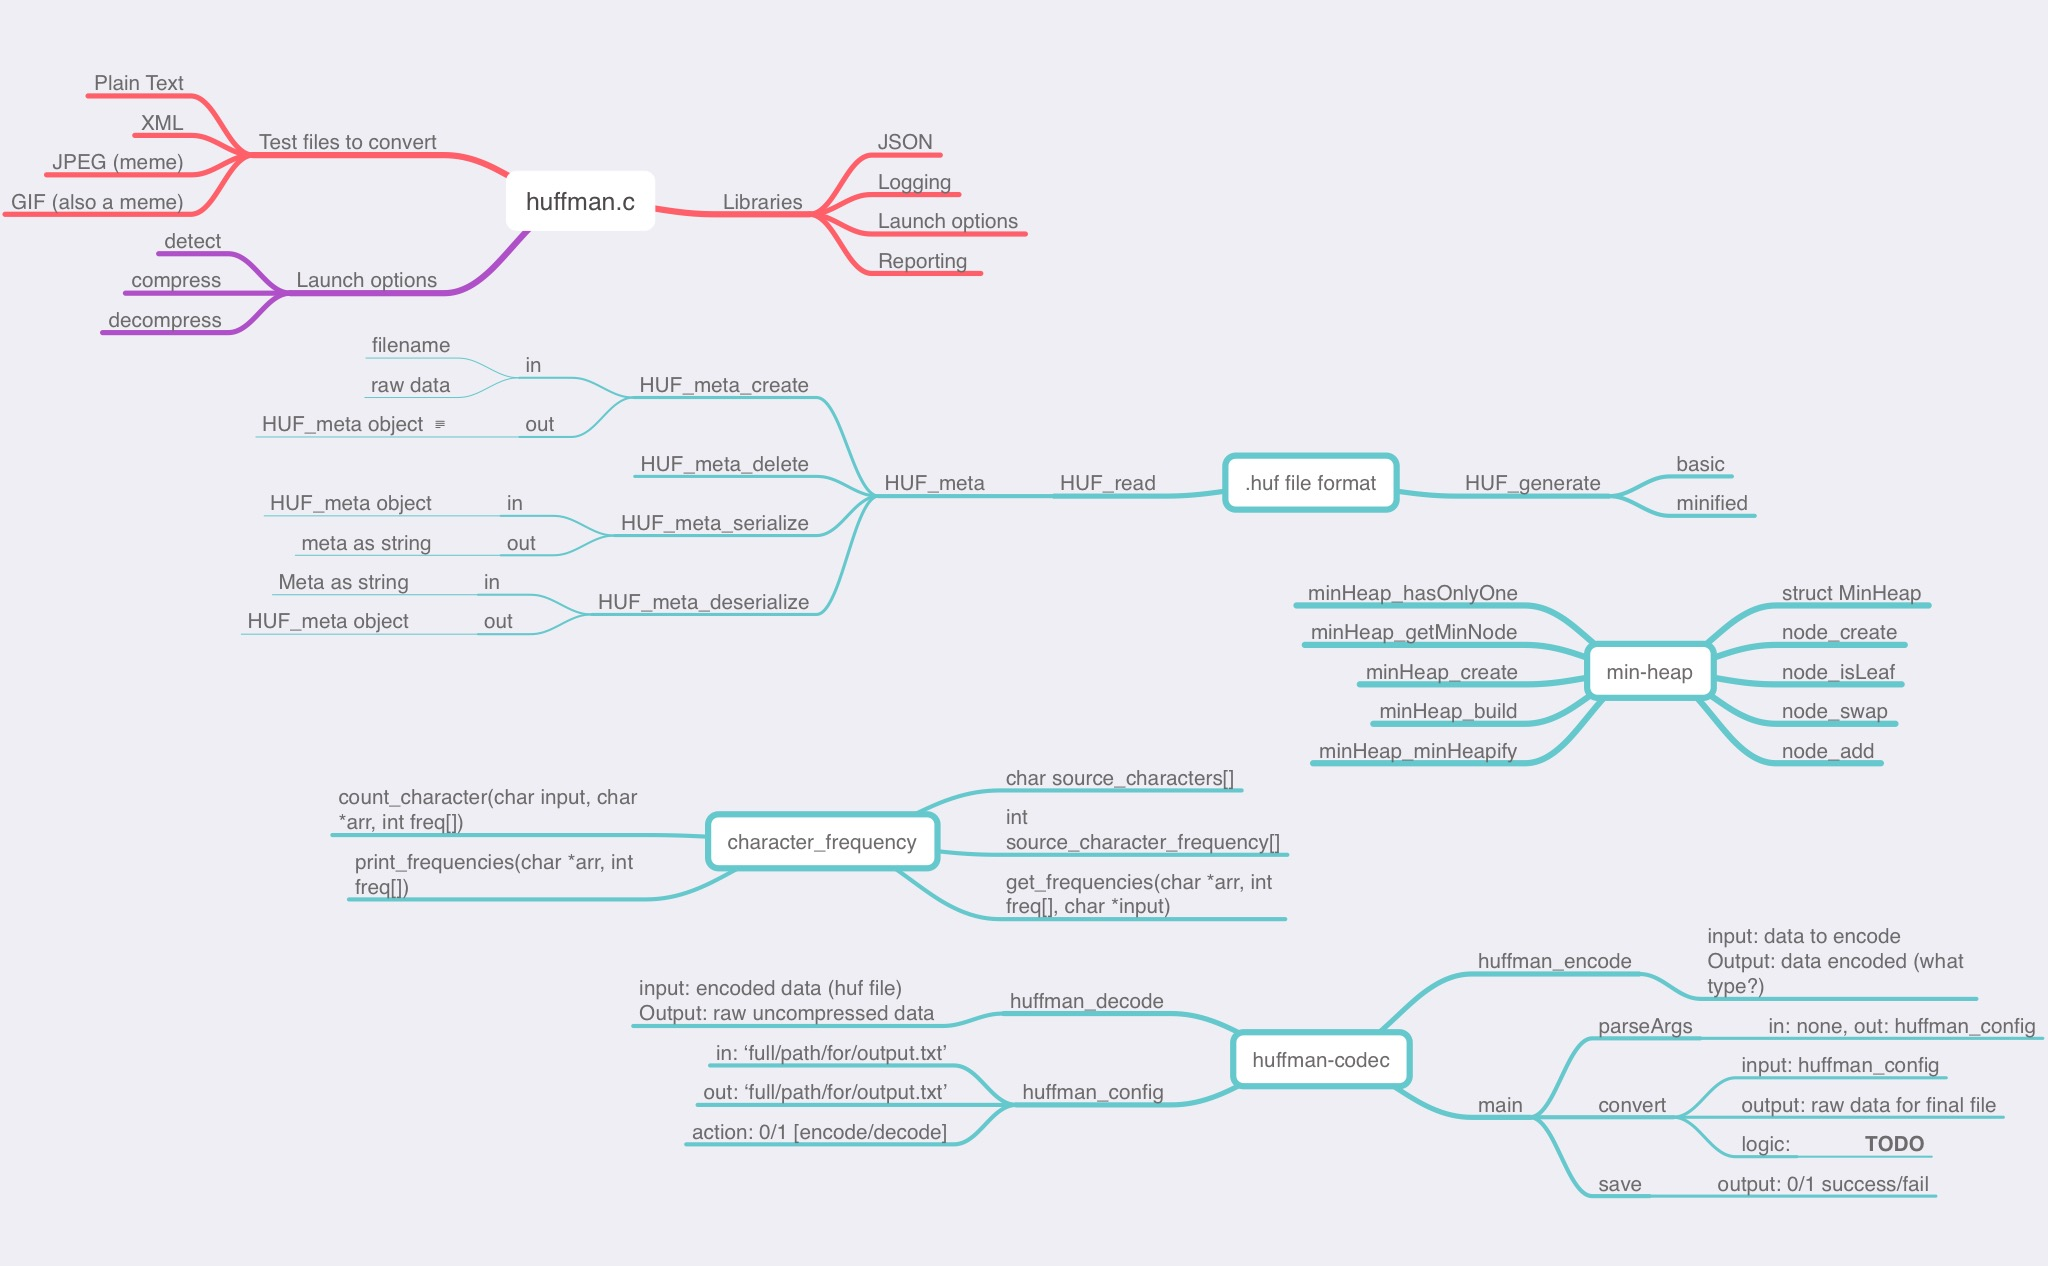
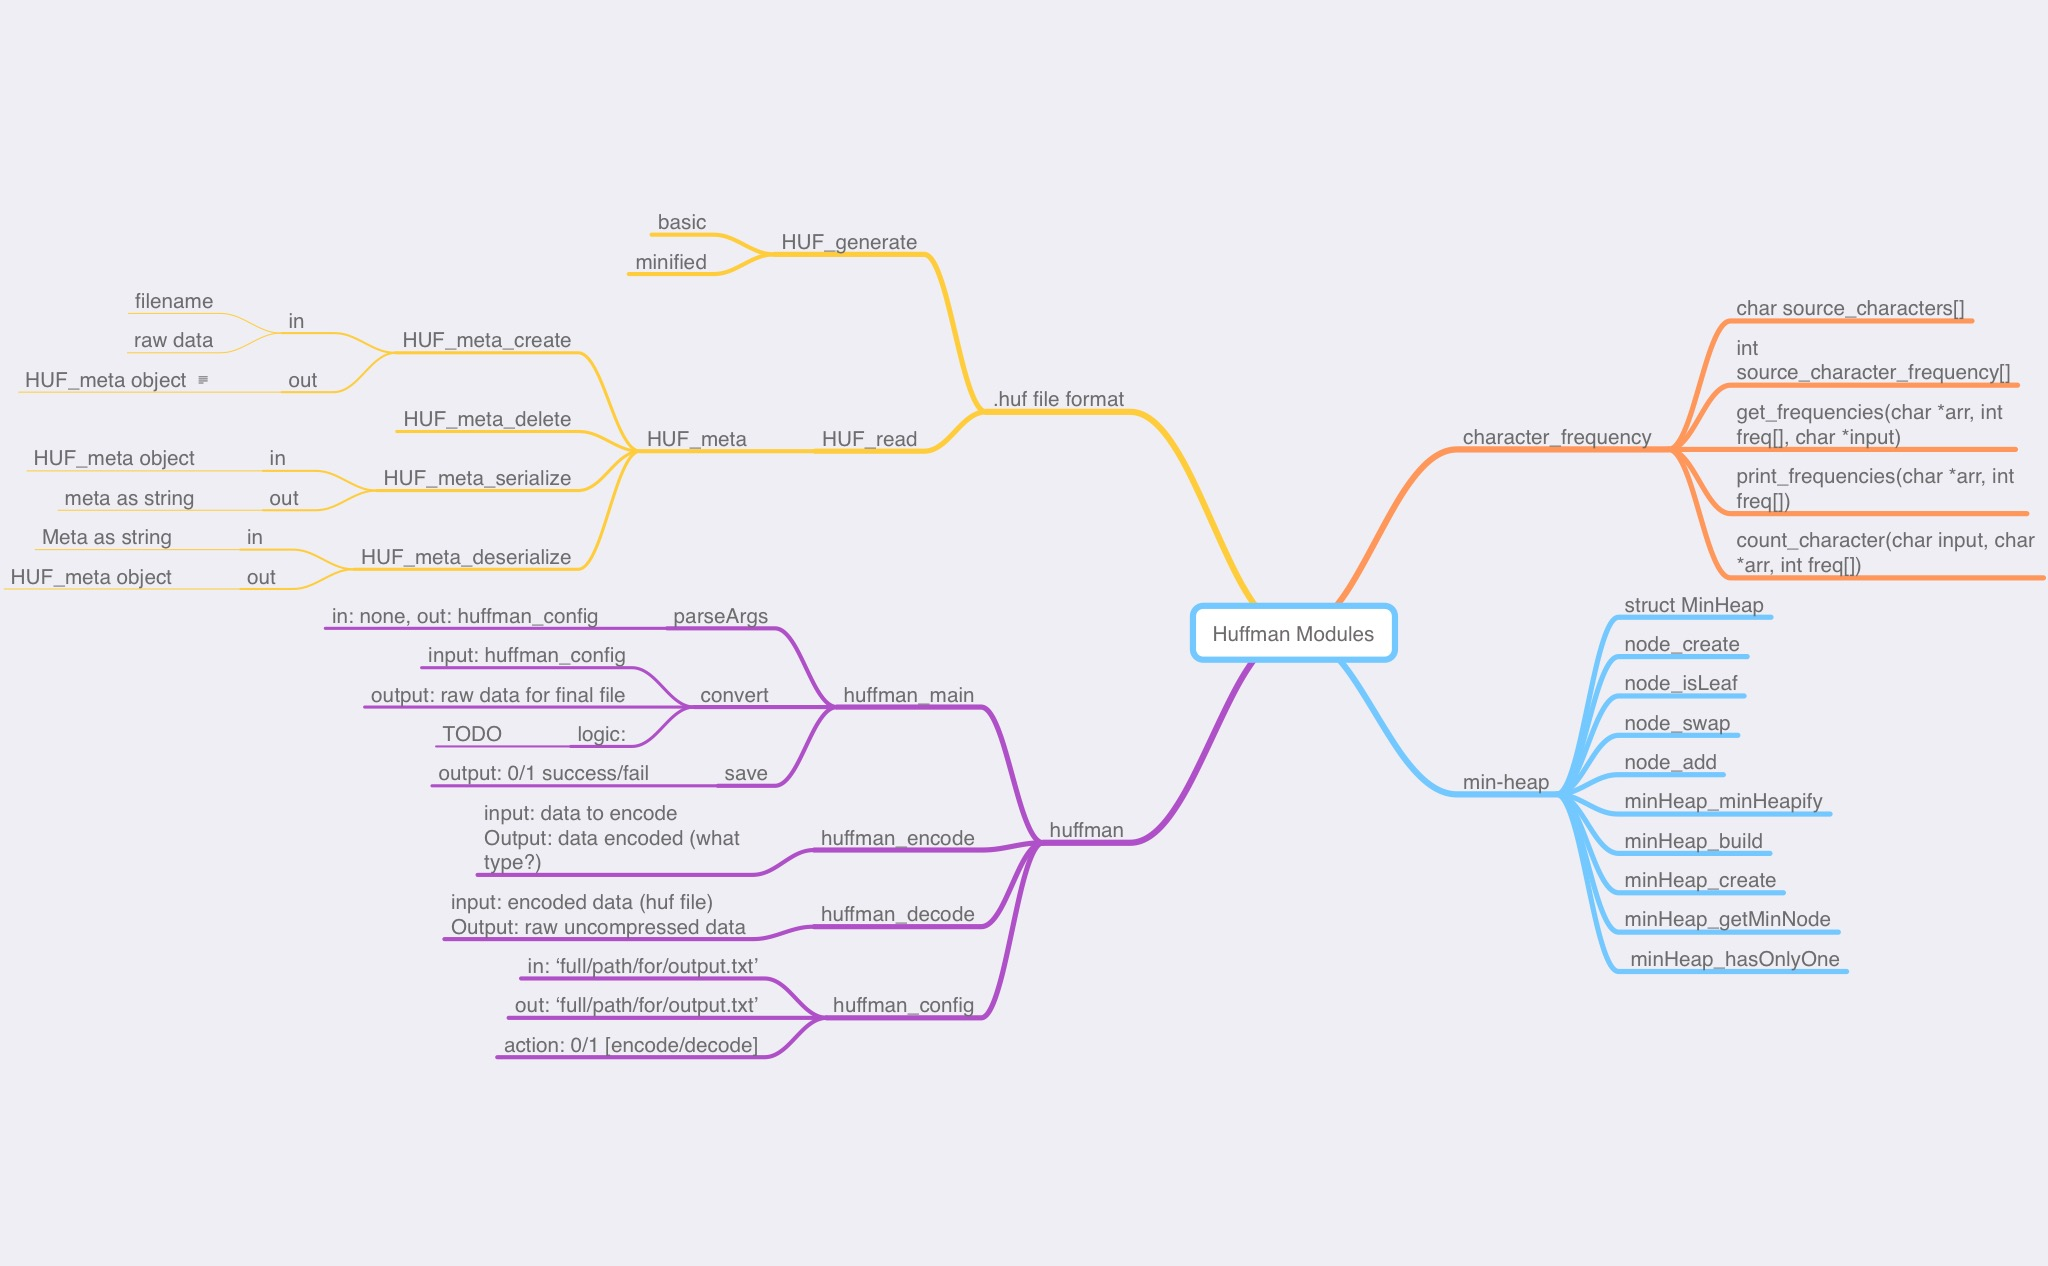
need to investigate segfault

diff --git a/src/tests.c b/src/tests.c
@@ -4,7 +4,7 @@
 #include <stdlib.h>
 #include <string.h>
 
-/** 
+/**
  * Module Test Files
  **/
 #include "huffman.h"
@@ -26,7 +26,7 @@ static char *test_check_testing_works()
 }
 
 /**  TODO: huff_file.h tests
- * ../src/huff_file.h 
+ * ../src/huff_file.h
  **/
 
 static char *test_HUFF_meta_create()
@@ -52,17 +52,17 @@ static char *test_HUFF_meta_serialize()
    *  We want serialize to be able to take the huff meta with properties:
    *  filename: "bar"
    *  extension: "foo"
-   *  size: 10241024 
+   *  size: 10241024
+   *
    *  into a json object
-   * 
    *  {
    *   "meta": {
    *     "filename": "bar",
-   *     "extension": "foo", 
+   *     "extension": "foo",
    *     "size": 10241024
    *   }
    * }
-   * 
+   *
    **/
 
   huff_meta *meta = HUFF_meta_create("bar", "foo", 10241024);
@@ -152,14 +152,21 @@ static char *test_HUFF_read()
   FILE *fp = fopen(filename, "r");
   char buffer[1024768];
   fgets(buffer, 1024768, fp);
-  
+
   // now we try to read it
-  huff_file *contents = HUFF_read
+  huff_file *contents = HUFF_read("test2.huff");
+
+  mu_assert("huff_read should match meta filename", strcmp(contents->meta->filename, meta->filename) == 0);
+  mu_assert("huff_read should match meta extension", strcmp(contents->meta->extension, meta->extension) == 0);
+  mu_assert("huff_read should match data", strcmp(contents->data, data) == 0);
+  mu_assert("huff_read should match size", contents->meta->size == 13371337);
+
   // delete the file now that we are done
   fclose(fp);
   remove(filename);
 
-  mu_assert("test_HUFF_read not yet implemented", 1);
+  mu_assert("test_HUFF_read not yet implemented", 0);
+  return (char *)0;
 }
 
 static char *test_huff_file()
@@ -175,7 +182,7 @@ static char *test_huff_file()
 }
 
 /**  TODO: min-heap.h tests
- * ../src/min-heap.h 
+ * ../src/min-heap.h
  **/
 static char *test_min_heap()
 {
@@ -184,7 +191,7 @@ static char *test_min_heap()
 }
 
 /**  TODO: character-frequency.h tests
- * ../src/character-frequency.h 
+ * ../src/character-frequency.h
  **/
 static char *test_character_frequency()
 {
@@ -193,7 +200,7 @@ static char *test_character_frequency()
 }
 
 /**  TODO: huffman.h tests
- * ../src/huffman.h 
+ * ../src/huffman.h
  **/
 static char *test_parseArgs()
 {

diff --git a/src/huff_file.c b/src/huff_file.c
@@ -80,7 +80,7 @@ void HUFF_write(huff_file *input, char *path)
   char *serialized_string = NULL;
   json_object_dotset_string(root_object, "meta.filename", input->meta->filename);
   json_object_dotset_string(root_object, "meta.extension", input->meta->extension);
-  json_object_dotset_number(root_object, "meta.extension", input->meta->size);
+  json_object_dotset_number(root_object, "meta.size", input->meta->size);
   json_object_set_string(root_object, "data", input->data);
   serialized_string = json_serialize_to_string(root_value);
 
@@ -98,7 +98,7 @@ void HUFF_write(huff_file *input, char *path)
 
 // reads a huff file from source and stores the content in huff_file
 // uses JSON library parson
-huff_file *HUFF_read(char *source, huff_file *output)
+huff_file *HUFF_read(char *source)
 {
   // get contents of source and store to buffer
   FILE *src = fopen(source, "r");
@@ -107,9 +107,20 @@ huff_file *HUFF_read(char *source, huff_file *output)
 
   // parse json and create huff object.
   JSON_Value *parsed = json_parse_string(buffer);
+  JSON_Object *parsedObject = json_value_get_object(parsed);
 
-  HUFF_meta_create(); // TODO: split source
-  HUFF_create();
+  char *metaFilename, metaExtension;
+  unsigned long metaSize;
+  char *data;
 
+  metaFilename = json_object_dotget_string(parsedObject, "meta.filename");
+  metaExtension = json_object_dotget_string(parsedObject, "meta.extension");
+  metaSize = json_object_dotget_number(parsedObject, "meta.size");
+  data = json_object_get_string(parsedObject, "data");
+
+  log_info("creating a huff_file, %s %s (%ul)\n\t%s", metaFilename, metaExtension, metaSize, data);
+  huff_meta *meta = HUFF_meta_create(metaFilename, metaExtension, metaSize);
+  huff_file *output = HUFF_create(meta, data);
   fclose(src);
+  return output;
 }

diff --git a/src/huff_file.h b/src/huff_file.h
@@ -34,7 +34,7 @@ void HUFF_write(huff_file *input, char *path);
 
 // reads a huff file from a path (source) and constructs a corresponding huff_file instance
 // uses JSON library parson
-huff_file *HUFF_read(char *source, huff_file *output);
+huff_file *HUFF_read(char *source);
 
 // creates a huff_meta instance
 huff_meta *HUFF_meta_create(char *filename, char *extension, unsigned long size);

diff --git a/huffman-plan.md b/huffman-plan.md
@@ -1,0 +1,126 @@
+# Huffman Modules
+
+
+## character_frequency
+
+### char source_characters[]
+
+### int source_character_frequency[]
+
+### get_frequencies(char *arr, int freq[], char *input)
+
+### print_frequencies(char *arr, int freq[])
+
+### count_character(char input, char *arr, int freq[])
+
+## min-heap
+
+### struct MinHeap
+
+### node_create
+
+### node_isLeaf
+
+### node_swap
+
+### node_add
+
+### minHeap_minHeapify
+
+### minHeap_build
+
+### minHeap_create
+
+### minHeap_getMinNode
+
+###  minHeap_hasOnlyOne
+
+## huffman
+
+### huffman_main
+
+- parseArgs
+
+	- in: none, out: huffman_config
+
+- convert
+
+	- input: huffman_config
+
+	- output: raw data for final file
+
+	- logic:
+
+		- TODO
+
+- save
+
+	- output: 0/1 success/fail
+
+### huffman_encode
+
+- input: data to encode  
+  Output: data encoded (what type?) 
+
+### huffman_decode
+
+- input: encoded data (huf file)   
+  Output: raw uncompressed data
+
+### huffman_config
+
+- in: ‘full/path/for/output.txt’
+
+- out: ‘full/path/for/output.txt’
+
+- action: 0/1 [encode/decode]
+
+## .huf file format
+
+### HUF_generate
+
+- basic
+
+- minified
+
+### HUF_read
+
+- HUF_meta
+
+	- HUF_meta_create
+
+		- in
+
+			- filename
+
+			- raw data
+
+		- out
+
+			- HUF_meta object
+			  "filename": "lol",  
+			  "extension": "txt",  
+			  "size": "12804"
+
+	- HUF_meta_delete
+
+	- HUF_meta_serialize
+
+		- in
+
+			- HUF_meta object
+
+		- out
+
+			- meta as string
+
+	- HUF_meta_deserialize
+
+		- in
+
+			- Meta as string
+
+		- out
+
+			- HUF_meta object
+

diff --git a/README.md b/README.md
@@ -15,7 +15,7 @@ uses a unique file extension: `.huff` for compressed files
   - [Tests](#tests)
   - [Reference](#reference)
   - [Structure](#structure)
-  - [Plans](#plans)
+  - [Plan](#plan)
   - [MinHeap module](#minheap-module)
     - [Binary Heaps in General](#binary-heaps-in-general)
     - [Min Heaps](#min-heaps)
@@ -77,9 +77,11 @@ make test && /bin/hoffman-encode #arguments
 
 * Makefile
 
-## Plans
+## Plan
 
-TODO: Mindnode export
+[For a markdown version, please see huffman-plan.md](./huffman-plan.m)
+
+[![Plan](./plan.png)](./huffman-plan.md)]
 
 ## MinHeap module
 
@@ -115,5 +117,4 @@ The following 3rd party libraries and technologies were used:
 Format is Use/Purpose - Name (License)
 
 * [ ] JSON - Parson (MIT) - https://github.com/kgabis/parson
-* Logging: TODO: find logging
-*
+* Logging - log.c (Free) - https://github.com/rxi/log.c
